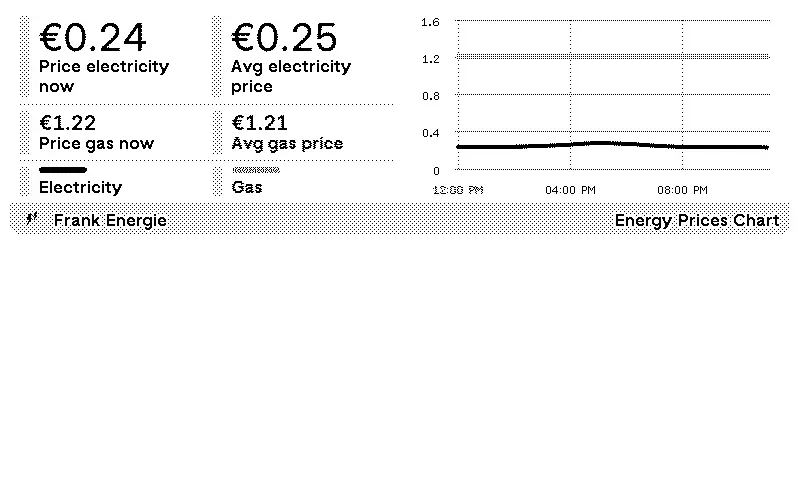
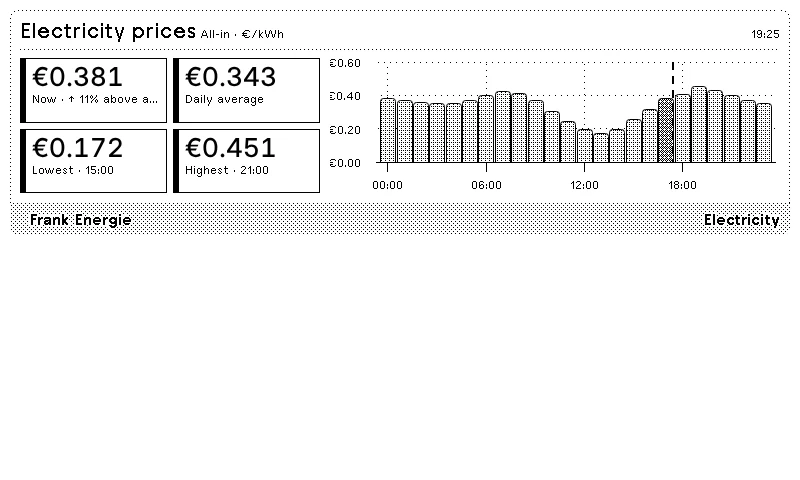
Update device previews and documentation

diff --git a/README.md b/README.md
@@ -1,21 +1,30 @@
-# trmnl-frank-energie-plugin
+# Frank Energie for TRMNL
 
-Frank Energie pricing data + TRMNL templates. This README is focused on development and improving the project.
+A TRMNL plugin for today's Frank Energie electricity and gas prices, with full, half and quadrant layouts for TRMNL OG, BWRY and TRMNL X.
 
 Install it [here](https://trmnl.com/recipes/245095)!
-## Requirements
 
-- A TRMNL capable device!
+## Features
+
+- Current all-in price with the correct €/kWh or €/m³ unit
+- Daily average, lowest and highest prices
+- Hourly price chart with the current period highlighted
+- Electricity or gas as the primary resource
+- Palette-aware rendering for grayscale and BWRY displays
+- Responsive TRMNL X landscape and portrait layouts
+- Clear unavailable-data state
 
 ## Local development
 
-Run the template through the TRMNL's Web UI for testing. It's awesome!
+Open `TRMNL/` with [TRMNLP](https://github.com/usetrmnl/trmnlp), select a primary resource in `.trmnlp.yml`, and preview all four layouts. Run the rendering checks with `pnpm test`.
 
 ## References
 
-- [Marktprijzen API](https://reversed.notion.site/Marktprijzen-API-89ce600a88ac4abe8c2ad89d3167a83e)
-- [Home Assistant Frank Energie const.py](https://raw.githubusercontent.com/bajansen/home-assistant-frank_energie/412c1c61eebeaa89e2b067b0d93042e446b55a01/custom_components/frank_energie/const.py)
-- [Home Assistant Frank Energie repo](https://github.com/bajansen/home-assistant-frank_energie/)
-- [TRMNLP repo](https://github.com/usetrmnl/trmnlp)
-- [TRMNL Private Plugins Templates Documentation](https://docs.usetrmnl.com/go/private-plugins/templates)
+- [Frank Energie dynamic pricing](https://www.frankenergie.nl/nl/dynamisch-energiecontract)
+- [Frank Energie price API reference](https://indyjonesnl.github.io/frank-energie-price-history/api/)
+- [Home Assistant Frank Energie integration](https://github.com/bajansen/home-assistant-frank_energie/)
+- [TRMNL screen templating](https://docs.trmnl.com/go/private-plugins/templates)
+- [TRMNL X guide](https://trmnl.com/framework/docs/3.3/trmnl_x_guide)
+- [TRMNL color palettes](https://trmnl.com/framework/docs/3.3/color_palettes)
+- [TRMNL adaptive charts](https://trmnl.com/framework/docs/3.3/chart)
 

diff --git a/TRMNL/README.md b/TRMNL/README.md
@@ -1,16 +1,18 @@
 # TRMNL Frank Energie Plugin
 
-A TRMNL plugin to display Frank Energie electricity and gas prices.
+A TRMNL plugin that displays current all-in Frank Energie electricity and gas prices.
 
 ## Icon
 
-The plugin icon is stored in the TRMNL bundle and referenced from settings.yml.
+The plugin icon is stored in the TRMNL bundle and referenced from `settings.yml`.
 
 <div align="center">
-	<img src="media/icon.svg" alt="Plugin Icon" width="90">
+  <img src="media/icon.svg" alt="Plugin Icon" width="90">
 </div>
 
 ## Previews
+
+Previews use a snapshot of public market prices and do not represent current rates.
 
 | Full View | Half Horizontal View |
 |------------|----------------------|
@@ -20,8 +22,20 @@ The plugin icon is stored in the TRMNL bundle and referenced from settings.yml.
 |-------------------|----------------|
 | ![Half Vertical View](media/preview_half_vertical.webp) | ![Quadrant View](media/preview_quadrant.webp) |
 
+| BWRY Full View |
+|----------------|
+| ![BWRY Full View](media/preview_bwry.webp) |
+
+| TRMNL X Landscape | TRMNL X Portrait |
+|-------------------|------------------|
+| ![TRMNL X Landscape](media/preview_trmnl_x.webp) | ![TRMNL X Portrait](media/preview_trmnl_x_portrait.webp) |
+
 ## Templates
 
-- **full.liquid**: Default view with current price, daily average, and 24h chart.
-- **half_horizontal**.liquid and **half_vertical.liquid**: Compact variants of the full view.
-- **quadrant.liquid**: Minimal view without the chart for tighter layouts.
+- **shared.liquid**: Resource selection, all-in calculations, time matching, shared components and adaptive chart rendering.
+- **full.liquid**: Current, average, lowest and highest prices, the daily chart and the secondary resource.
+- **half_horizontal.liquid**: Four primary price metrics beside the daily chart.
+- **half_vertical.liquid**: Current price, daily chart, three summary metrics and the secondary resource.
+- **quadrant.liquid**: Current, lowest and highest prices without a chart.
+
+The chart uses TRMNL Framework 3.3 paint helpers, so bars, text and grids adapt to grayscale, BWRY, themes and TRMNL X.
